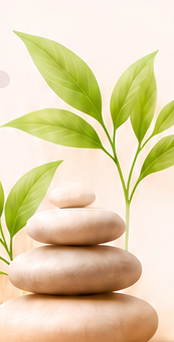
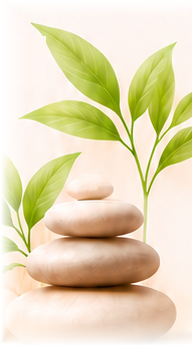
About You preview: full stones hero, gradient progress, Select defaults to match reference

diff --git a/src/routes/stitch-preview.$screen.tsx b/src/routes/stitch-preview.$screen.tsx
@@ -1433,7 +1433,7 @@ function AYShell({ progress, onBack, label, children, nav }: { progress: number;
       <header className="shrink-0 px-5 pb-2" style={{ paddingTop: "max(0.9rem, env(safe-area-inset-top))" }}>
         <div className="flex items-center gap-4">
           <button aria-label="Back" onClick={onBack} className="flex h-10 w-10 shrink-0 items-center justify-center rounded-full border border-stone-200/70 bg-white/95 shadow-sm active:scale-95" style={{ color: "#39332F" }}><MS name="arrow_back" size={20} /></button>
-          <div className="h-1.5 flex-1 overflow-hidden rounded-full bg-stone-200/80"><div className="h-full rounded-full" style={{ width: `${progress}%`, background: "#936548" }} /></div>
+          <div className="h-1.5 flex-1 overflow-hidden rounded-full bg-stone-200/80"><div className="h-full rounded-full" style={{ width: `${progress}%`, background: "linear-gradient(to right,#B98A5E,#8F4B25)" }} /></div>
         </div>
         {label && <p className="mt-3 text-center text-[12px] font-bold uppercase tracking-[0.15em]" style={{ color: "#5A4B3C" }}>{label}</p>}
       </header>
@@ -1567,11 +1567,13 @@ function AboutYouFlow({ initialView = "about" }: { initialView?: "about" | "name
   const [wUnit, setWUnit] = useState("kg");
   const [height, setHeight] = useState(177);
   const [hUnit, setHUnit] = useState("cm");
+  const [hTouched, setHTouched] = useState(false);
+  const [wTouched, setWTouched] = useState(false);
   if (view === "name") return <NameEntry initial={name} onBack={() => setView("about")} onSave={(v) => { setName(v); setView("about"); }} />;
-  if (view === "weight") return <WeightPicker kg={weight} unit={wUnit} setUnit={setWUnit} heightCm={height} onBack={() => setView("about")} onSave={(v) => { setWeight(v); setView("about"); }} />;
-  if (view === "height") return <HeightPicker cm={height} unit={hUnit} setUnit={setHUnit} onBack={() => setView("about")} onSave={(v) => { setHeight(v); setView("about"); }} />;
-  const hDisp = hUnit === "cm" ? `${height} cm` : (() => { const t = height / 2.54; return `${Math.floor(t / 12)}'${Math.round(t - Math.floor(t / 12) * 12)}"`; })();
-  const wDisp = wUnit === "kg" ? `${weight} kg` : `${Math.round(weight * 2.20462)} lb`;
+  if (view === "weight") return <WeightPicker kg={weight} unit={wUnit} setUnit={setWUnit} heightCm={height} onBack={() => setView("about")} onSave={(v) => { setWeight(v); setWTouched(true); setView("about"); }} />;
+  if (view === "height") return <HeightPicker cm={height} unit={hUnit} setUnit={setHUnit} onBack={() => setView("about")} onSave={(v) => { setHeight(v); setHTouched(true); setView("about"); }} />;
+  const hVal = hUnit === "cm" ? `${height}` : (() => { const t = height / 2.54; return `${Math.floor(t / 12)}'${Math.round(t - Math.floor(t / 12) * 12)}"`; })();
+  const wVal = wUnit === "kg" ? `${weight}` : `${Math.round(weight * 2.20462)}`;
   const card = { background: "#FFFDF9", borderColor: "#F0E6D8" } as const;
   const ring = (name: string, tint: string) => <span className="flex h-9 w-9 shrink-0 items-center justify-center rounded-full border" style={{ background: tint, borderColor: "#EADDC9", color: "#936548" }}><MS name={name} size={18} /></span>;
   const unitTog = (opts: [string, string][], val: string, set: (v: string) => void) => (
@@ -1580,8 +1582,8 @@ function AboutYouFlow({ initialView = "about" }: { initialView?: "about" | "name
   return (
     <AYShell progress={20} onBack={() => {}} nav>
       <main className="relative flex min-h-0 flex-1 flex-col overflow-y-auto px-5 pb-5 pt-1">
-        <img src="/images/aboutyou/stones.png" alt="" className="pointer-events-none absolute right-[-6px] top-[-6px] z-0 w-[120px]" style={{ WebkitMaskImage: "linear-gradient(to bottom,#000 62%,transparent)", maskImage: "linear-gradient(to bottom,#000 62%,transparent)" }} onError={(e) => { e.currentTarget.style.display = "none"; }} />
-        <div className="relative z-10 mb-4" style={{ maxWidth: 210 }}>
+        <img src="/images/aboutyou/stones.png" alt="" className="pointer-events-none absolute right-[-6px] top-[-12px] z-0 w-[158px]" onError={(e) => { e.currentTarget.style.display = "none"; }} />
+        <div className="relative z-10 mb-4 flex flex-col" style={{ maxWidth: 208, minHeight: 210 }}>
           <h1 className="mb-1 text-[28px] font-semibold leading-tight tracking-[-0.01em]" style={{ ...PLAYFAIR, color: "#2B211B" }}>About You</h1>
           <p className="text-[12.5px] leading-[1.45]" style={{ color: "#6B625B" }}>Help us personalise your plan with a few basic details.</p>
         </div>
@@ -1591,7 +1593,7 @@ function AboutYouFlow({ initialView = "about" }: { initialView?: "about" | "name
             <div className="flex items-center gap-3">
               {ring("person", "#FBEFE0")}
               <span className="text-[14px] font-bold" style={{ color: "#2B211B" }}>Name</span>
-              <button onClick={() => setView("name")} className="ml-auto flex min-w-0 flex-1 items-center justify-between gap-2 rounded-full px-4 py-2.5 text-[13px]" style={{ background: "#F4ECE2" }}><span className="truncate" style={{ color: name ? "#2B211B" : "#A79684" }}>{name || "Enter your name"}</span><MS name="edit" size={15} className="text-[#B9A890]" /></button>
+              <button onClick={() => setView("name")} className="ml-auto flex min-w-0 flex-1 items-center rounded-full px-4 py-2.5 text-[13px]" style={{ background: "#F4ECE2" }}><span className="truncate" style={{ color: name ? "#2B211B" : "#A79684" }}>{name || "Enter your name"}</span></button>
             </div>
           </div>
           {/* Gender */}
@@ -1613,12 +1615,12 @@ function AboutYouFlow({ initialView = "about" }: { initialView?: "about" | "name
           {/* Height */}
           <div className="rounded-[20px] border p-3.5" style={card}>
             <div className="flex items-center gap-3">{ring("straighten", "#EAF4E8")}<span className="text-[14px] font-bold" style={{ color: "#2B211B" }}>Height</span><div className="ml-auto">{unitTog([["cm", "cm"], ["ft - in", "ft"]], hUnit, setHUnit)}</div></div>
-            <button onClick={() => setView("height")} className="mt-2.5 flex w-full items-center justify-between gap-2 rounded-full px-4 py-2.5 text-[13px]" style={{ background: "#F4ECE2" }}><span className="flex items-center gap-2"><span className="font-semibold" style={{ color: "#2B211B" }}>{hDisp.replace(/ (cm|").*/, "").trim() || "Select…"}</span><MS name="expand_more" size={16} className="text-[#B9A890]" /></span><span style={{ color: "#8A7B6C" }}>{hUnit === "cm" ? "cm" : "ft-in"}</span></button>
+            <button onClick={() => setView("height")} className="mt-2.5 flex w-full items-center justify-between gap-2 rounded-full px-4 py-2.5 text-[13px]" style={{ background: "#F4ECE2" }}><span className="flex items-center gap-2"><span className="font-semibold" style={{ color: hTouched ? "#2B211B" : "#A79684" }}>{hTouched ? hVal : "Select…"}</span><MS name="expand_more" size={16} className="text-[#B9A890]" /></span><span style={{ color: "#8A7B6C" }}>{hUnit === "cm" ? "cm" : "ft-in"}</span></button>
           </div>
           {/* Weight */}
           <div className="rounded-[20px] border p-3.5" style={card}>
             <div className="flex items-center gap-3">{ring("monitor_weight", "#FCECEE")}<span className="text-[14px] font-bold" style={{ color: "#2B211B" }}>Weight</span><div className="ml-auto">{unitTog([["kg", "kg"], ["lb", "lb"]], wUnit, setWUnit)}</div></div>
-            <button onClick={() => setView("weight")} className="mt-2.5 flex w-full items-center justify-between gap-2 rounded-full px-4 py-2.5 text-[13px]" style={{ background: "#F4ECE2" }}><span className="flex items-center gap-2"><span className="font-semibold" style={{ color: "#2B211B" }}>{wUnit === "kg" ? weight : Math.round(weight * 2.20462)}</span><MS name="expand_more" size={16} className="text-[#B9A890]" /></span><span style={{ color: "#8A7B6C" }}>{wUnit}</span></button>
+            <button onClick={() => setView("weight")} className="mt-2.5 flex w-full items-center justify-between gap-2 rounded-full px-4 py-2.5 text-[13px]" style={{ background: "#F4ECE2" }}><span className="flex items-center gap-2"><span className="font-semibold" style={{ color: wTouched ? "#2B211B" : "#A79684" }}>{wTouched ? wVal : "Select…"}</span><MS name="expand_more" size={16} className="text-[#B9A890]" /></span><span style={{ color: "#8A7B6C" }}>{wUnit}</span></button>
           </div>
           {/* Location */}
           <div className="rounded-[20px] border p-3.5" style={card}>
